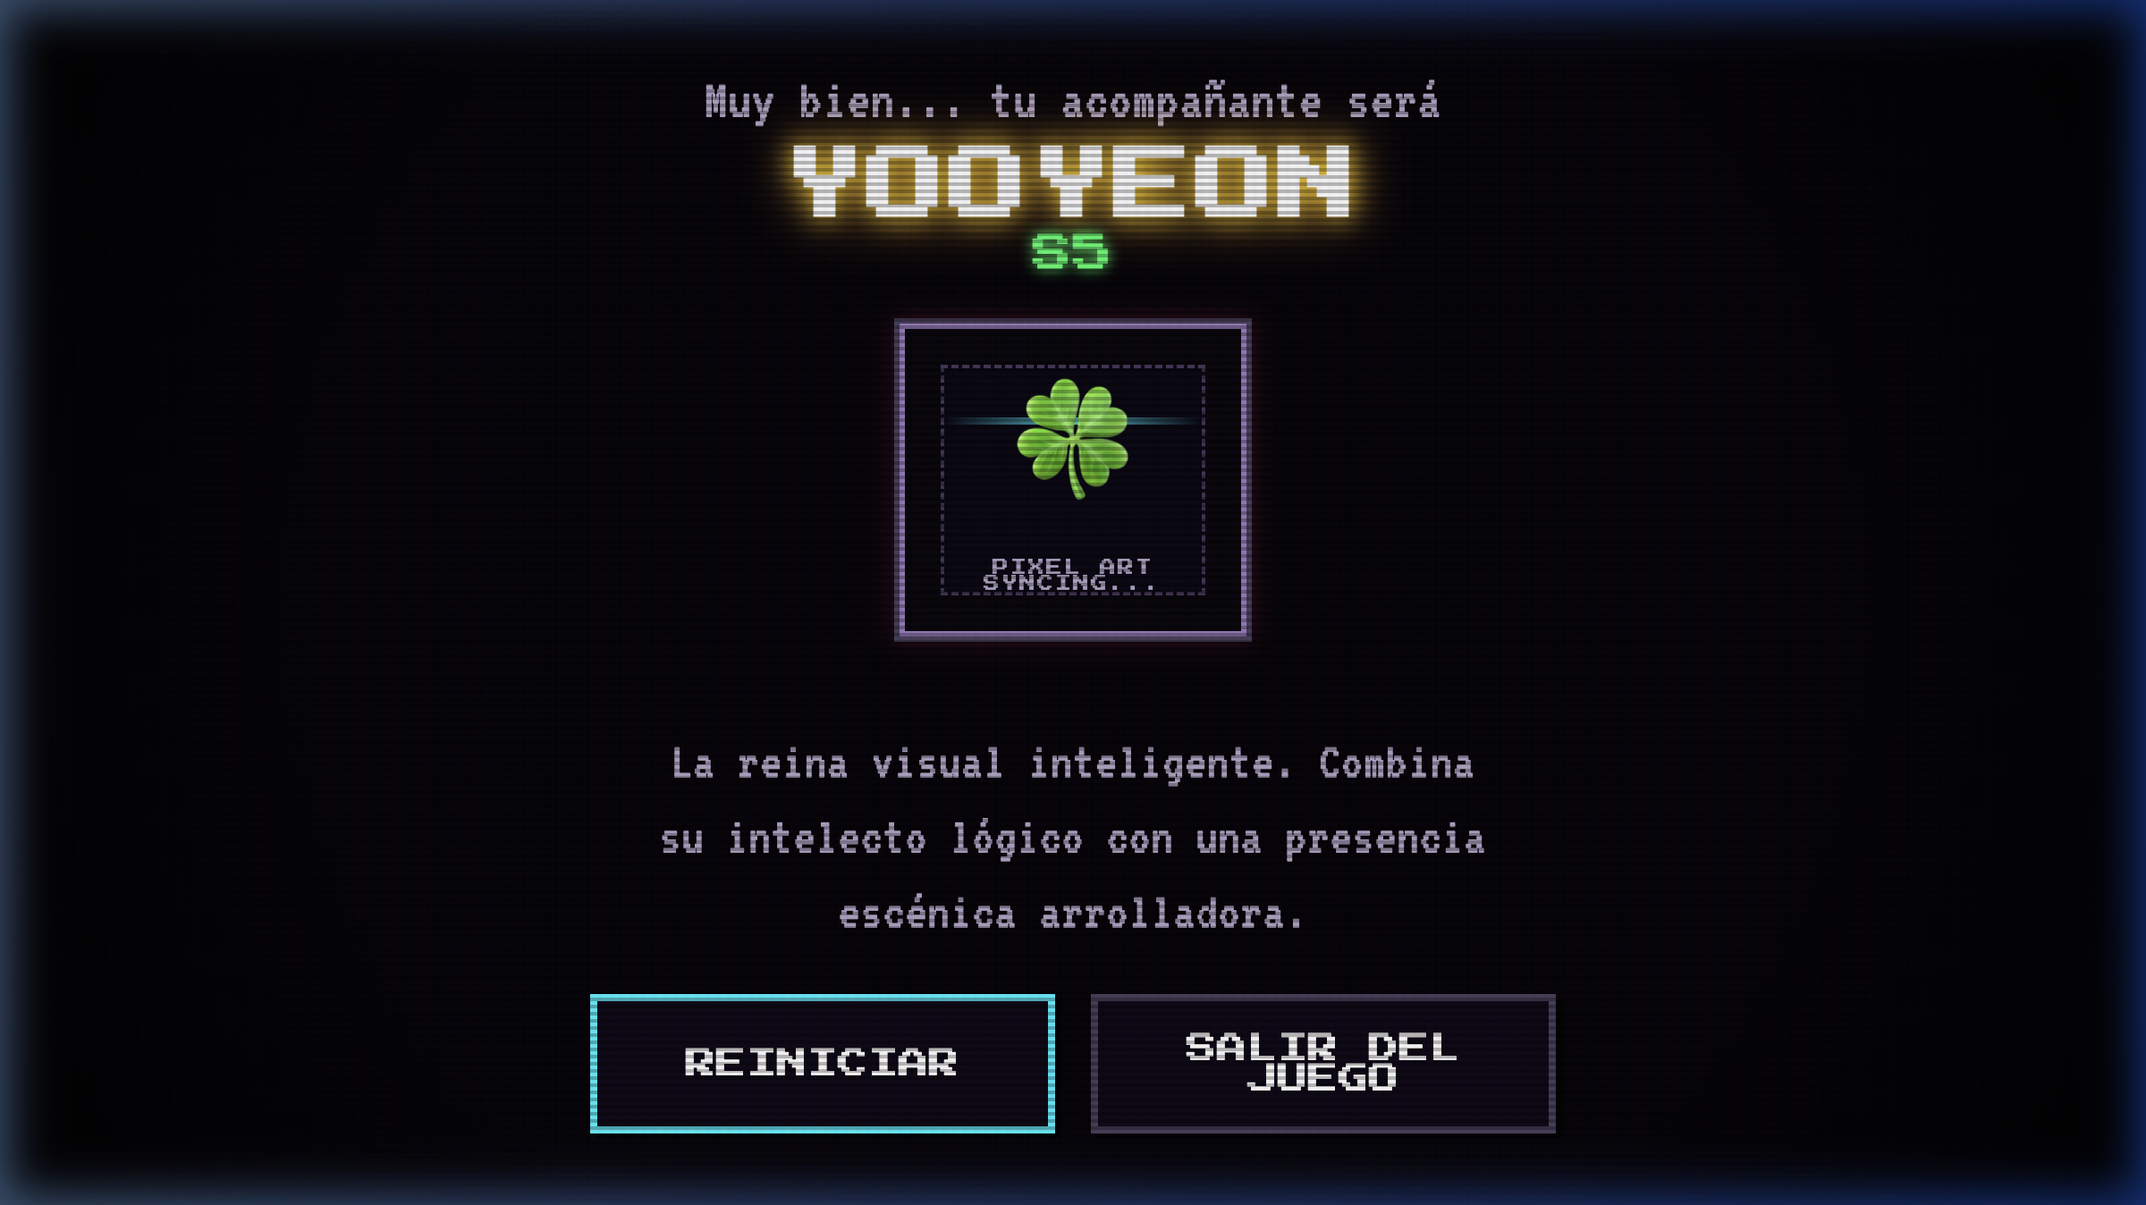
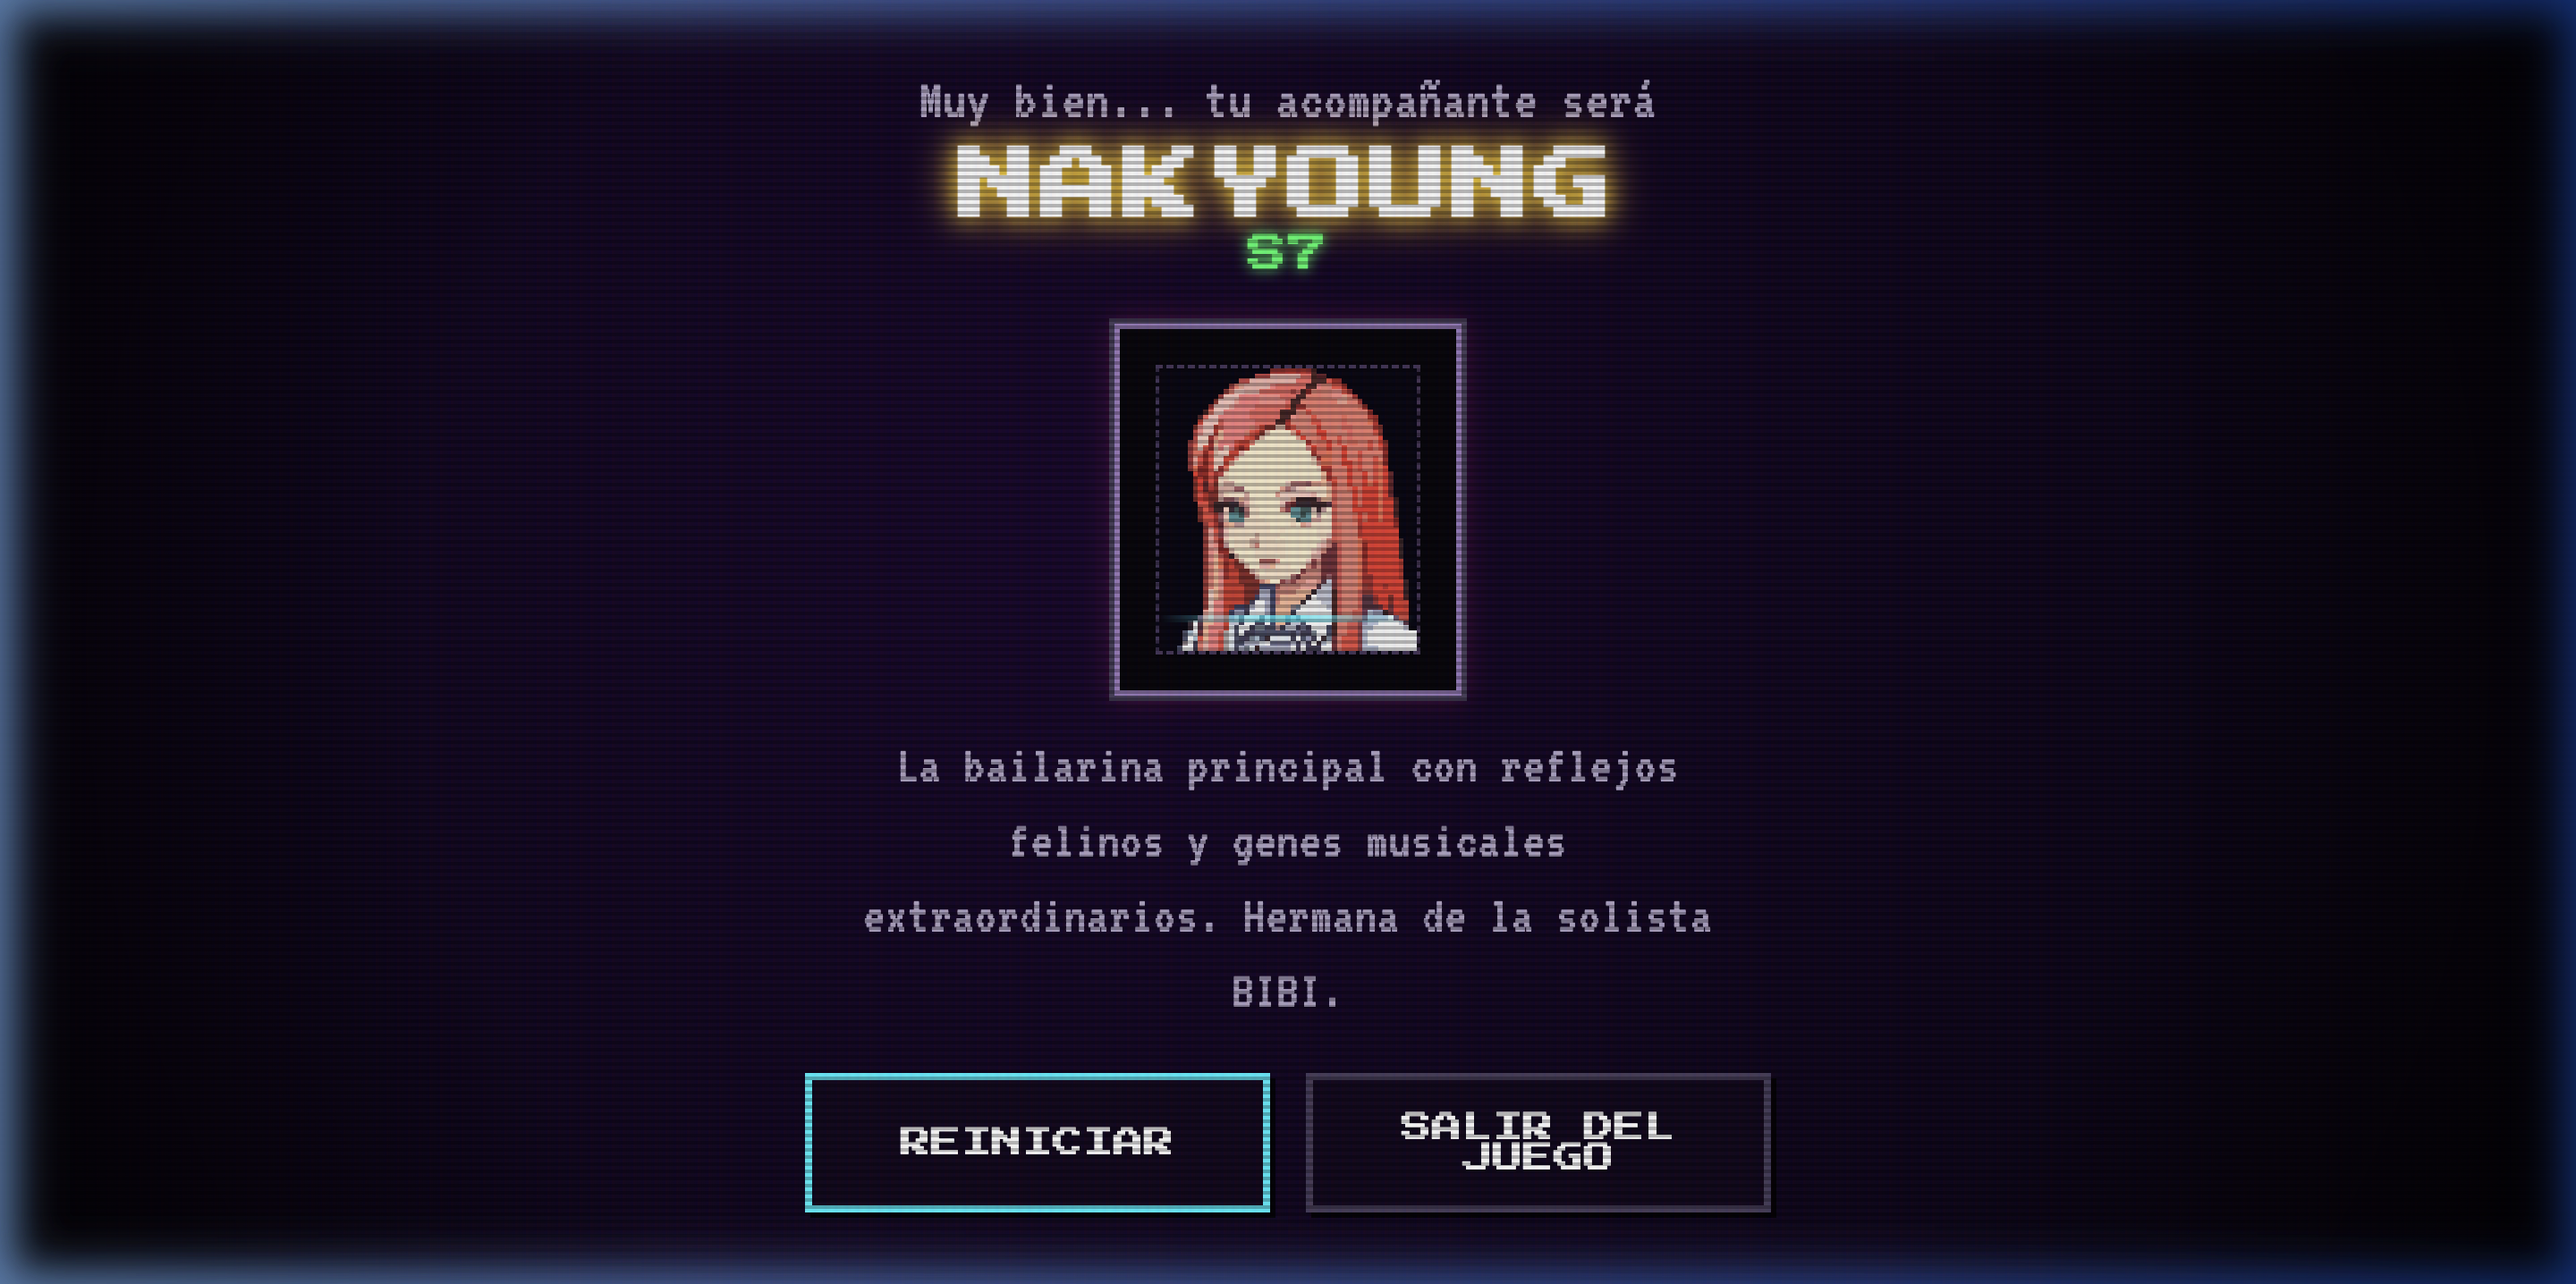
[docs]: update final result preview screenshot in README

Changed region(s): [[0.0, 0.0, 0.75, 1.0], [0.7188, 0.8412, 0.75, 0.9347]]

diff --git a/docs/CONTEXT.md b/docs/CONTEXT.md
@@ -49,4 +49,6 @@ This file is a living ledger of the development history, architecture, and curre
   - Profile Card Layout Fix (July 2026):
     - Fixed CSS height collapse bug on `.profile-card` by explicitly setting `height: 100%` and `box-sizing: border-box` to nested `.pixel-border-outer` and `.pixel-border-inner` containers.
     - Verified native image loading and rendering inside the card without layout collapsing on the results screen.
+    - Replaced the repository's `assets/screenshots/final_result.png` with the verified portrait-rendered screenshot to update the README preview.
+
 
